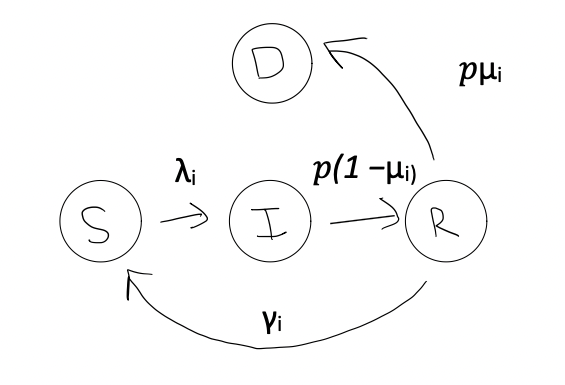
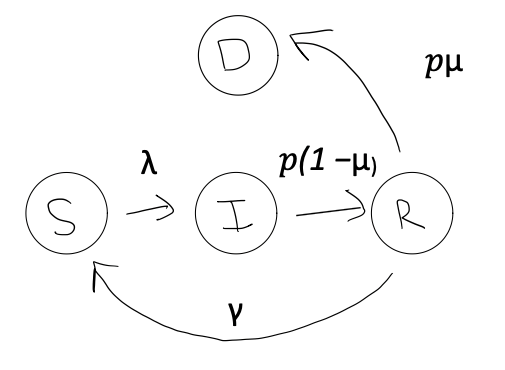
more changes to blog post

diff --git a/_posts/2024-12-20-three-group-sir.md b/_posts/2024-12-20-three-group-sir.md
@@ -26,7 +26,7 @@ $$\lambda = \tau c \frac{I}{N}$$
 
 In the above equation, we see that $c$, the average number of contacts, directly increases or decreases $\lambda$.
 
-Of the infected individuals, we must define how long they will remain in this state. We represent the recovery rate as $\rho$, which is the inverse of the average duration of infectiousness. Specifically:
+Now, there is some percentage of people that have ended up as "infected." Of the infected individuals, we must define how long they will remain in this state. We represent the recovery rate as $\rho$, which is the inverse of the average duration of infectiousness. Specifically:
 
 <p style="text-align: center;">
 $$\text{Average duration of infectiousness} = \frac{1} {\rho}$$
@@ -36,7 +36,14 @@ In our study, we use $\rho$ = .1, which translates to average duration of infect
 
 To summarize, in order for a transition from $S$ to $I$ to occur, we need a person in state $S$ to come into contact with someone in state $I$. Their probability of transitioning is dependent on $\lambda$, which is calcuted as a combination of transmission probability$\tau$ and average number of contacts $c$. Indirectly, $\lambda$ is impacted by $\rho$, which helps determine the proportion infected at any time $\frac{I}{N}$. To calculate new infections at time t, we multiply $\lambda$ by $S$. A higher $\rho$ leads to faster recovery which in turns lowers $\lambda$ by reducing the number of infected individuals. 
 
-Second, there's $\mu_i$ - probability of dying following infection. That is, of those who become infected, $N*/lambda$, some will 
+Next, we need to define what happens with people after they've become infected. In this case, they can either move into the recovered state or they can die. The transitions are governed by two rates:
+
+\begin{itemize}
+    \item $\rho$ - the recovery rate (inverse of the average infectious period)
+    \item $\mu$ - the probability of dying following infection
+\end{itemize}
+
+The rate at which infected individuals move to the deceased state is calculated as $\rho \mu I$. Those who do not die transition to the recovered class $R$ at a rate of $\rho(1-\mu)I$. Once in the recovered class, individuals may lose their immunity and return to the susceptible class at a rate $\gamma$, which represents waning immunity.
 
 Lastly, there's $\gamma$ - rate of waning immunity.
 
